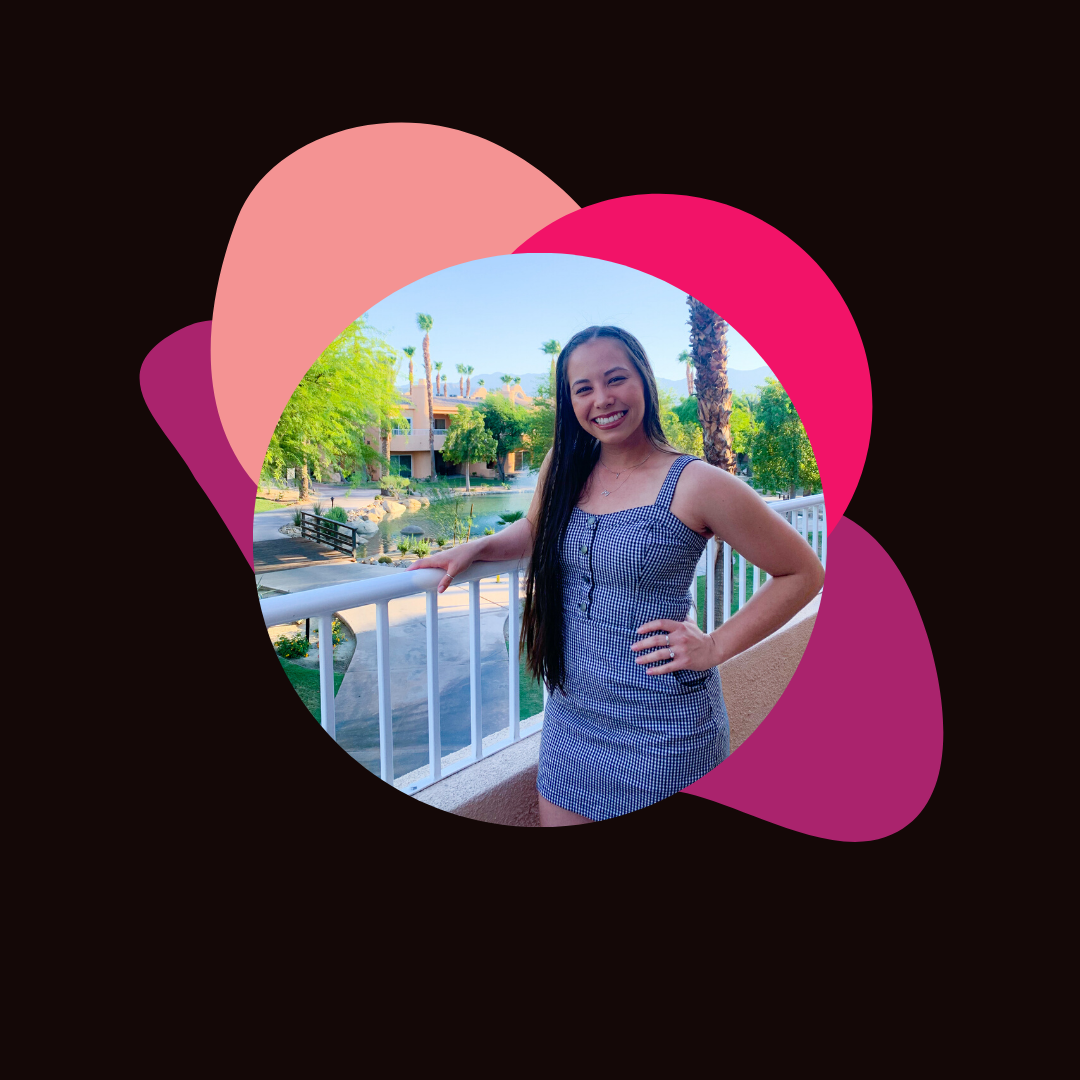
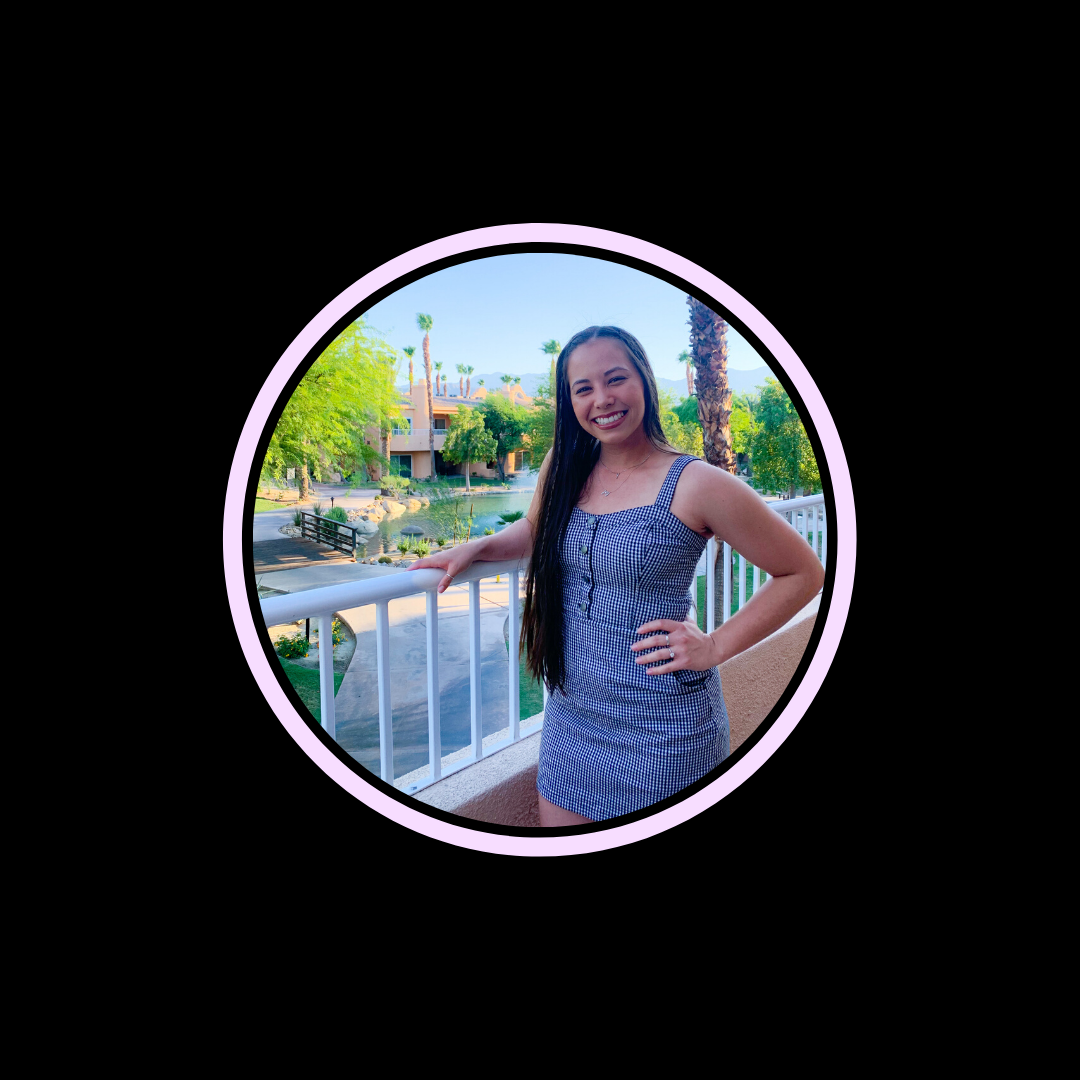
fixed the profile pic coloring, uploaded background img for heading

Changed region(s): [[0.1222, 0.0917, 0.8861, 0.7944]]

diff --git a/css/style.css b/css/style.css
@@ -84,8 +84,8 @@ a{
 .heading-name, .contact-me{
   padding-bottom: 100px;
 }
-.heading-name{
-  background: #F7DDFF;
+.background-img{
+  background-size: cover;
 }
 .homepage-container{
   padding-top: 300px;
@@ -114,6 +114,12 @@ hr{
   }
   .about-me-container{
     text-align: center;
+  }
+}
+@media (min-width: 960px){
+  .background-img{
+    background-size: 100% 100%;
+    
   }
 }
 .btn-branding-outline, .show-more-button, .say-hello-button{

diff --git a/index.html b/index.html
@@ -33,7 +33,8 @@
     </div>
   </nav>
 </div>
-<div class="text-center heading-name">
+<div class="text-center background-img" style="background-image: url(pexels-felix-mittermeier-957040.jpg);">
+  <div class="heading-name">
   <h2 class="My-name">
     Hi my name is
   </h2>
@@ -65,6 +66,7 @@
   <div class="text-center">
     <a href="about.html"class=" btn btn-branding-outline"> Learn More </a>
   </div>
+</div>
 </div>
 </div>
 </div>
